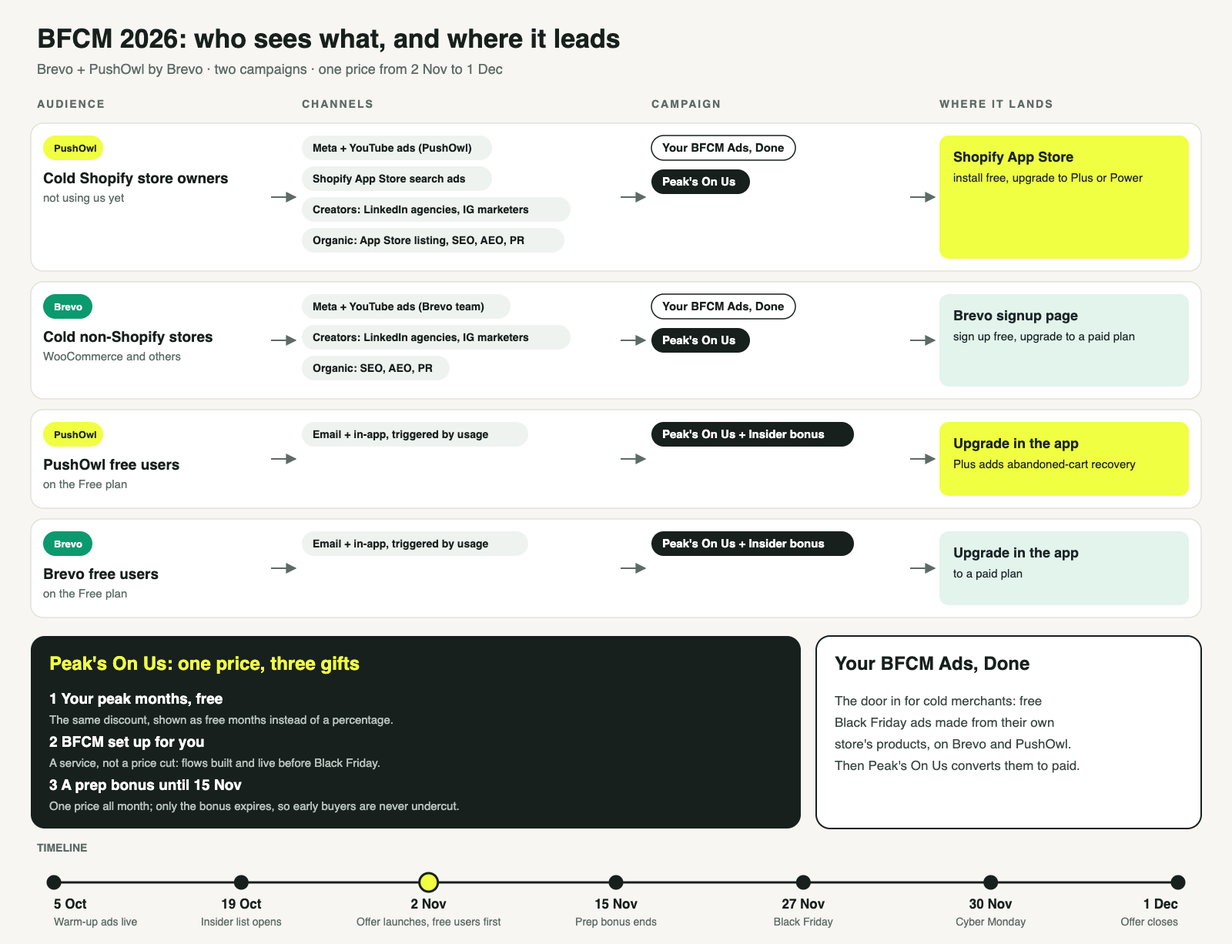
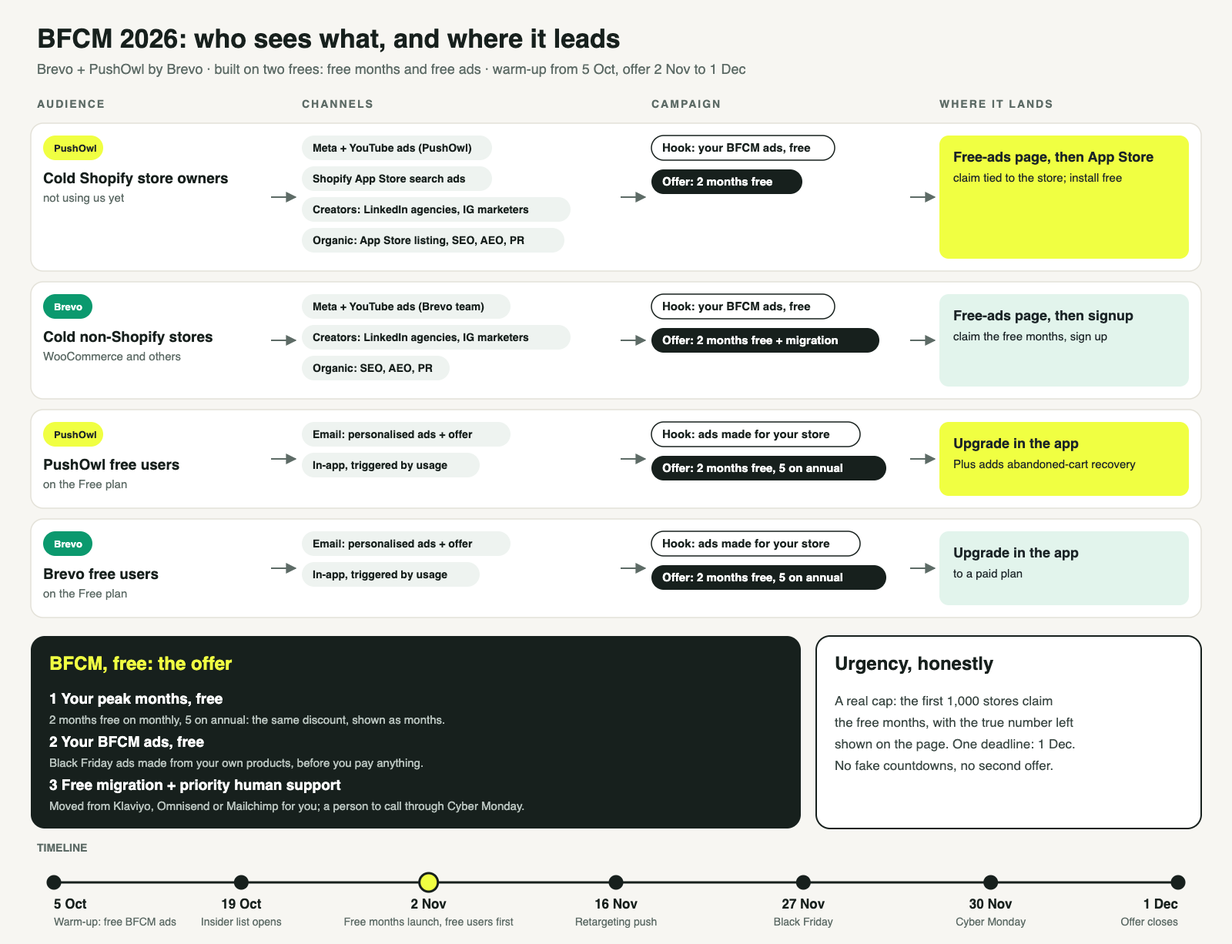
BFCM 2026: offer built on free months + free ads, landing page, phases

diff --git a/bfcm-2026.html b/bfcm-2026.html
@@ -26,7 +26,7 @@ a{color:var(--forest)}ol li,ul li{margin:3px 0}
 </style></head><body><header><div class="wrap"><span class="chip">Ideation, for review</span><span class="chip">1 Oct 2026</span>
 <h1>BFCM 2026: two campaigns for Brevo and PushOwl</h1>
 <p>How to repackage the same discount into offers worth acting on, for cold merchants (Meta, YouTube, creators) and free users (email), across both brands, plus the lead-up calendar and how to reprogram the agent to run it. Creatives and assets come after we pick.</p>
-<div class="toc"><a href="#flow">One-page view</a><a href="#why">What's wrong today</a><a href="#learn">What others did</a><a href="#map">Who gets what</a><a href="#c1">Campaign 1</a><a href="#c2">Campaign 2</a><a href="#offer">Offer math</a><a href="#ch">Channels</a><a href="#email">Free-user emails</a><a href="#cal">Calendar</a><a href="#agent">The agent</a><a href="#organic">Organic (Naman)</a><a href="#tab">Campaigns tab</a><a href="#dec">Decisions</a></div></div></header><div class="wrap">
+<div class="toc"><a href="#flow">One-page view</a><a href="#why">What's wrong today</a><a href="#learn">What others did</a><a href="#map">Who gets what</a><a href="#c1">The offer</a><a href="#aud">Who gets what</a><a href="#lp">Landing page</a><a href="#phase">Phases</a><a href="#free">Two frees</a><a href="#ch">Channels</a><a href="#email">Free-user emails</a><a href="#cal">Calendar</a><a href="#agent">The agent</a><a href="#organic">Organic (Naman)</a><a href="#tab">Campaigns tab</a><a href="#dec">Decisions</a></div></div></header><div class="wrap">
 
 <h2 id="flow">One-page view</h2>
 <p><a href="bfcm-2026-flow.png" target="_blank"><img src="bfcm-2026-flow.png" alt="BFCM 2026 flow: audiences, channels, campaigns, destinations, offers and timeline" style="width:100%;border-radius:12px;border:1px solid #e3e1d8"></a></p>
@@ -35,45 +35,70 @@ a{color:var(--forest)}ol li,ul li{margin:3px 0}
 <ul><li><b>It arrives after the buying window.</b> Brevo's 2025 deal ran 19 Nov to 1 Dec (40% off the first annual year, 500 codes). Merchants pick and set up their BFCM tools in October to mid November; by Black Friday they're mid-sale and their stack is locked. Shopify apps that front-load (GemPages from 1 Oct, Easify's biggest cut in September) are following the buyer.</li><li><b>It gives cold merchants no reason to care.</b> "40% off a tool I don't use" sells nothing to a stranger. Their problem is "is my store ready for my biggest week", not software prices.</li><li><b>It's background noise.</b> Brevo, Omnisend, Framer, Kit, beehiiv and Webflow all ran "X% off annual with code BFXX". Coupon sites copy the codes, and in 2025 a Brevo affiliate code (50% off 3 months) beat our own headline.</li><li><b>Free users get nothing that matches why they'd upgrade.</b> They upgrade when they hit a limit or need a feature for peak, not because a percentage exists.</li></ul>
 
 <h2 id="learn">What worked elsewhere (26 offers researched)</h2>
-<p><b>The three we're building on:</b> give a service instead of a price cut, show the discount as free months, and front-load with a bonus that expires. They're the three gifts inside Peak's On Us.</p>
+<p><b>What we took from this:</b> show the discount as free months (the conversion offer), give a service instead of a price cut (free migration, priority support), and front-load the campaign (warm-up from 5 Oct). Urgency comes from a real cap and one deadline rather than an expiring bonus.</p>
 <div class='grid'><div class='card good'><h4>Give a service, not a price cut</h4><p>Semrush 2024: one month of Pro plus a free $300 consult by a partner agency, price untouched. Omnisend: free Klaviyo migration, "worth $1,000, done in 5 days", run all year. Free setup removes the real blocker for a busy merchant.</p></div><div class='card good'><h4>Show the discount as free months</h4><p>MeetEdgar called 30% off a year "three months free"; ReturnPrime "2 months free"; Okendo "first 30 days free". Same money, reads as a gift instead of a markdown.</p></div><div class='card good'><h4>Cut the commitment for cold traffic</h4><p>ElevenLabs ran "$1 first month" two years running. A cold stranger won't prepay a year; they'll try a month.</p></div><div class='card good'><h4>Bonus capacity for upgraders</h4><p>Descript sold "fewer limits" (bonus credits), Higgsfield "unlimited". Free users feel limits first, so extra sends or credits speak to the exact reason they'd pay.</p></div><div class='card good'><h4>Free-user-only offers and early access</h4><p>Kit limited its deal to new and free-plan users; Grammarly emails its free base every year ("only once a year"); Paddle recommends existing users get first access.</p></div><div class='card good'><h4>Partners carry it to cold audiences</h4><p>PushOwl's own 2024 roundup of 20 partner-app deals; AppSumo's 5-tool bundle sold out. Every partner sends the offer to its own list.</p></div><div class='card good'><h4>Front-load, then add a reason to hurry</h4><p>Early-bird bonuses that expire (DronaHQ: 40% to 15 Nov, then 30%). Better: keep one price and let a bonus expire, so early buyers are never undercut.</p></div><div class='card good'><h4>Evidence on discounting</h4><p>Paddle: discounting SaaS sellers see about 7x orders, best at 30 to 40% off. Counterpoint (Hurman, ecommerce): deep discounts often lose margin; bonus value and waived setup hold up better.</p></div></div>
 
 <h2 id="map">Who gets what: two brands, two audiences</h2>
 <table><tr><th></th><th>PushOwl by Brevo (your team, PushOwl ad accounts)</th><th>Brevo (Brevo performance team, Brevo ad accounts)</th></tr><tr><td><b>Who</b></td><td>Shopify store owners only</td><td>Non-Shopify stores: WooCommerce, WordPress and others</td></tr><tr><td><b>Cold destination</b></td><td>Shopify App Store listing (install free, upgrade in app)</td><td>Brevo signup page (plus a BFCM offer page)</td></tr><tr><td><b>Free users</b></td><td>PushOwl Free plan (500 push, 500 emails; <b>no abandoned-cart recovery</b>, which starts on Plus at $19/mo)</td><td>Brevo Free plan</td></tr><tr><td><b>Channels</b></td><td>Meta + Google/YouTube (PushOwl accounts), Shopify App Store ads, creators, in-app + email</td><td>Meta + Google/YouTube (Brevo accounts, run by their team from the Campaigns tab), creators, email</td></tr><tr><td><b>Narrative spine</b></td><td>N3 Fair-Priced BFCM + cart recovery proof (Box, Box, Brenda)</td><td>N3 + N1 The List Tax (send-based pricing), N4 done-for-you</td></tr></table>
 
-<h2 id="c1">Campaign 1 (recommended lead): "Peak's On Us"</h2>
-<p><b>The idea:</b> your biggest month shouldn't come with your biggest bill or your biggest to-do list. We cover your peak months and set BFCM up for you. Same discount, packaged as three things a merchant actually wants before Black Friday.</p>
-<div class='grid'><div class='card good'><h4>1. Your peak months, free</h4><p>The discount shown as months: e.g. Nov and Dec free on a monthly plan, or about 5 months free on annual (the 2025 40% annual equals ~4.8 months). On PushOwl this maps cleanly to a longer Shopify-billing free trial of Plus or Power (to confirm with engineering).</p></div><div class='card good'><h4>2. BFCM set up for you</h4><p>PushOwl: a one-click BFCM pack (abandoned cart, browse abandonment, back in stock, flash-sale push, pop-up) live in 10 minutes. Brevo: a done-for-you BFCM setup or Klaviyo migration, delivered by Managed Services or Expert Directory partner agencies (N4).</p></div><div class='card good'><h4>3. A prep bonus that expires 15 Nov</h4><p>Buy early, get more: e.g. 10 BFCM ads made from your store (the new ads feature as the wedge, N2), or extra sends/SMS credits for peak. The price never changes during the campaign; only the bonus expires.</p></div></div>
-<table><tr><th>Audience</th><th>Message</th><th>Offer framing</th></tr><tr><td><b>Cold, PushOwl (Shopify)</b></td><td>"Black Friday's coming. Is your store ready to win back every abandoned cart?" Lead with readiness and cart recovery, show the 10-minute setup.</td><td>Install free. Peak's on us: Plus free through December, BFCM pack included.</td></tr><tr><td><b>Cold, Brevo (Woo and others)</b></td><td>"Send your biggest month without a bill spike." Brevo bills for what you send, not your list (N1 math: 10k contacts + 40k sends = $29 vs Klaviyo $150).</td><td>Your peak months on us, BFCM set up for you.</td></tr><tr><td><b>Free users, both</b></td><td>"Free can't recover abandoned carts, and BFCM is when carts get abandoned most." Personalised from their own store data where possible.</td><td>Insider access + the bonus, before the public. Peak months on us.</td></tr></table>
-<p><b>Why this one leads:</b> it answers the merchant's real question in the window when they're asking it, it uses the patterns with the most evidence (free months, free setup, early bonus), and it gives every channel the same simple promise.</p>
+<h2 id="c1">The offer (revised 2 Oct): BFCM, free</h2>
+<p><b>Decision:</b> the whole campaign is built on two "frees". Free months are the conversion offer, free ads are the hook. The $1 first month and the expiring prep bonus are dropped: free months already lower the commitment, and urgency comes from a real cap and one deadline instead.</p>
+<div class="grid">
+<div class="card good"><h4>1. Your peak months, free</h4><p>The same discount shown as months: <b>2 months free</b> on monthly (November and December, your peak), or <b>5 months free on annual</b> (about the 2025 40% annual). On PushOwl it's a 60-day free trial of Plus or Power in Shopify billing (to confirm with engineering); on Brevo, a coupon.</p></div>
+<div class="card good"><h4>2. Your BFCM ads, free</h4><p>Black Friday ads made from your own store's products, on both Brevo and PushOwl. It's value before any purchase, so it's the hook for cold traffic, the warm-up offer, and the attention-grabber in free-user emails.</p></div>
+<div class="card good"><h4>3. Free migration, done for you</h4><p>Moving from Klaviyo, Omnisend or Mailchimp is done by our team: lists, flows, templates, before Black Friday. State a dollar value only if it's the real price of the service (Omnisend publishes "worth $1,000, done in 5 days").</p></div>
+<div class="card good"><h4>4. Priority human support through Cyber Monday</h4><p>The one more benefit. In our 215-ad competitor corpus, human-support ads are the most durable angle (never switched off), and peak week is when a merchant fears a problem with nobody to call.</p></div>
+</div>
+<p><b>Urgency, honestly:</b> a real cap (for example the first 1,000 stores claim the free months) plus one deadline (1 Dec). The counter on the page shows the true number left; Brevo's 2025 offer was already capped at 500 codes, so there's precedent. No fake countdowns.</p>
 
-<h2 id="c2">Campaign 2 (cold-traffic wedge): "Your BFCM Ads, Done"</h2>
-<p><b>The idea:</b> paste your store, get your Black Friday ads. A free, useful thing a cold merchant wants right now, which brings them into the product, where Campaign 1's upgrade offer takes over.</p>
-<ul><li><b>Offer:</b> sign up or install and get a set of free BFCM ads made from your own products (the ads feature, N2's "ads from your store"). Upgrade within the window to keep generating and to get Peak's On Us.</li><li><b>Best on:</b> Instagram and YouTube with marketer and AI-tool creators ("I made my Black Friday ads from my store URL in 2 minutes"), and as a Meta cold hook.</li><li><b>Care needed:</b> our ad-corpus analysis showed AI-led ads die fast (15-day median) and N2 is our weakest narrative as a claim. So lead with the outcome ("your BFCM ads are done") and the free gift, not "AI".</li><li><b>Runs on both brands:</b> PushOwl (Shopify) users and Brevo users both get the ads feature, so the same wedge works for both cold audiences.</li></ul>
+<h2 id="aud">Who gets which offer</h2>
+<table><tr><th>Audience</th><th>Hook (first touch)</th><th>Conversion offer</th><th>Where they land</th></tr>
+<tr><td><b>Cold Shopify owners</b> (PushOwl)</td><td>Your BFCM ads, free</td><td>2 months of Plus free + priority support</td><td>Free-ads page, then the App Store</td></tr>
+<tr><td><b>Cold Shopify owners on Klaviyo or Omnisend</b> (switchers)</td><td>Free migration before Black Friday</td><td>Free migration + 2 months free</td><td>Free-ads page, then the App Store</td></tr>
+<tr><td><b>Cold non-Shopify stores</b> (Brevo)</td><td>Your BFCM ads, free</td><td>2 months free + free migration + support</td><td>Free-ads page, then Brevo signup</td></tr>
+<tr><td><b>PushOwl free users</b></td><td>Personalised ads for their store, in email</td><td>2 months of Plus free (abandoned-cart recovery), 5 on annual</td><td>Upgrade in the app</td></tr>
+<tr><td><b>Brevo free users</b></td><td>Personalised ads for their store, in email</td><td>2 months free, 5 on annual</td><td>Upgrade in the app</td></tr></table>
+<p><b>For cold, both, but in order:</b> free ads first (it gives them something before asking for anything), free months next (it closes). Run both as separate hooks in the warm-up so the data shows which pulls harder for each audience.</p>
 
-<h2 id="offer">Offer math (same money, better packaging)</h2>
-<table><tr><th>If the discount is</th><th>Show it as</th><th>Use for</th></tr><tr><td>40% off the first annual year (2025)</td><td>about 5 months free on annual</td><td>free users with real usage (higher commitment)</td></tr><tr><td>~16% of a year</td><td>2 months free (Nov and Dec, your peak) on monthly</td><td>cold traffic (low commitment)</td></tr><tr><td>first month at a token price</td><td>"$1 for your first month" (ElevenLabs pattern)</td><td>cold test variant</td></tr><tr><td>value add, no extra discount</td><td>BFCM setup done for you, prep bonus until 15 Nov</td><td>everyone; the reason to act early</td></tr></table>
-<p>One price for the whole window (2 Nov to 1 Dec), one public offer, and creator codes that add a perk rather than a bigger cut, so no partner code ever beats the headline again.</p>
+<h2 id="lp">The landing page: a free-ads page, not a coupon page</h2>
+<ul><li><b>Yes to a page between the ad and the store</b>, because it does a job a coupon page can't: the merchant pastes their store URL and sees their BFCM ads in seconds. That delivers the hook, captures the store URL (for retargeting and email even if they don't install), and gives Meta a high-volume event to learn on.</li>
+<li><b>Then the claim:</b> "Claim your 2 free months, 683 of 1,000 left" (the real number), with Install on Shopify (PushOwl) or Sign up (Brevo).</li>
+<li><b>PushOwl detail:</b> an App Store install can't carry a coupon, so the claim is tied to the store domain captured on the page; when that store installs, the app applies the 60-day trial. Engineering to confirm.</li>
+<li><b>Direct-to-store still runs</b>, as a control: about 30% of warm-up spend goes straight to the App Store or signup, so we can see whether the page earns its extra step.</li></ul>
+
+<h2 id="phase">What happens when: warm-up, then the hard-hitting phase</h2>
+<table><tr><th>Phase</th><th>Ads</th><th>Creators, PR</th><th>Email (free users)</th></tr>
+<tr><td><b>Warm-up</b><br>5 Oct to 1 Nov</td><td>"Your BFCM ads, free": about 70% to the free-ads page (optimise for store URL submitted), 30% direct to App Store or signup. Free-months teaser hooks tested alongside. Builds the warm pools.</td><td>Creators demo the free ads ("I made my Black Friday ads from my store URL"). PR prepares the announcement.</td><td>Personalised ads for their store; Insider list for the free months.</td></tr>
+<tr><td><b>Launch</b><br>2 to 15 Nov</td><td>"BFCM, free" goes live: retarget everyone who visited the page, submitted a URL, watched the video or opened the App Store listing; cold prospecting continues with the combined offer.</td><td>Announcement: "Brevo makes BFCM free for merchants". Creator wave 1 with codes.</td><td>Insiders first on 2 Nov, then everyone; triggered upgrade emails.</td></tr>
+<tr><td><b>Peak</b><br>16 Nov to 1 Dec</td><td>Retargeting-heavy as CPMs climb; claims-left updates; switchers get the migration message.</td><td>Creator wave 2 + partnership ads; PR data story from the free-ads tool (real usage numbers).</td><td>Claims update, BF, CM, last call; closes 1 Dec 23:59.</td></tr></table>
+
+<h2 id="free">Everything built only around the two frees</h2>
+<table><tr><th>Channel</th><th>Free months</th><th>Free ads</th></tr>
+<tr><td><b>Ads</b></td><td>"Your BFCM months are on us"; retargeting and switchers.</td><td>Cold hook and warm-up: show real ads made from real stores.</td></tr>
+<tr><td><b>Creators</b></td><td>Codes add the migration or support perk, never a bigger discount.</td><td>IG and YouTube: "I made my BF ads from my store URL, free". LinkedIn agency owners: free ads for every client store + free migration for their clients.</td></tr>
+<tr><td><b>PR</b></td><td>"Brevo makes BFCM free": 2 months, migration, support.</td><td>The data story: how many BFCM ads stores made in October.</td></tr>
+<tr><td><b>Email</b></td><td>The upgrade offer, annual = 5 months.</td><td>Personalised ads made for each free user's store, the attention grabber.</td></tr></table>
+<p><b>Personalised ads in email:</b> the pipeline already exists (the MagicFit day-1 personalised-ad emails and the PushOwl daily-ads build). The known blocker: Brevo's PushOwl segment holds no store URLs, so we need PushOwl's internal email-to-shop-domain export, which takes reach from about 27% to all users. Cost stays low with the 4-ads-in-one-image method (about 75% cheaper). Nothing is sent without your go.</p>
 
 <h2 id="ch">Channels</h2>
 <table><tr><th>Channel</th><th>What to run</th><th>When</th></tr><tr><td><b>Meta, PushOwl</b></td><td>Value-led warm-up first ("is your store BFCM-ready?", the free BFCM pack, the deliverability checker), then offer-led. Box, Box, Brenda as the hero video (it's literally cart recovery across push, email, SMS, WhatsApp), founder or creator screen-record UGC, benefit statics. Destination: App Store.</td><td>Warm-up from 5 Oct, offer 2 Nov, retargeting-heavy from 16 Nov, mostly retargeting in BF week</td></tr><tr><td><b>YouTube</b></td><td>15 to 30 s cutdowns of the hero video; "set up your BFCM flows in 10 minutes" tutorials as in-feed.</td><td>From 5 Oct</td></tr><tr><td><b>Shopify App Store ads</b></td><td>Search ads on email, SMS, push, abandoned cart keywords: catches merchants shopping now.</td><td>From 5 Oct</td></tr><tr><td><b>Meta/Google, Brevo</b></td><td>Same campaigns, Woo and non-Shopify messaging, Brevo signup destination, delivered to their team via the Campaigns tab.</td><td>Same calendar</td></tr><tr><td><b>LinkedIn agency owners</b></td><td>"The BFCM flow stack we build for clients" carousels, comment-to-get template packs, an agency client offer (partner-built setup). Expert Directory partners are never paid a fee; other agency creators are.</td><td>Brief by 9 Oct, posts from 2 Nov</td></tr><tr><td><b>Instagram marketers / tech creators</b></td><td>"Build my BFCM flow with me" Reels, "my BF ads from my store URL" (Campaign 2), a creator-only perk. Best ones boosted as partnership ads from 16 Nov.</td><td>Book this week (rates rise 20 to 40% at peak)</td></tr></table>
 <p>Q4 prices: Meta CPMs rise about 30 to 45% from October to BF week. Since we've never run a cold BFCM campaign, the ads have to finish learning at October prices, which is why the warm-up starts 5 Oct, a week earlier than the research minimum.</p>
 
 <h2 id="email">Free-user email sequence (both brands)</h2>
-<table><tr><th>When</th><th>Email</th><th>Note</th></tr><tr><td>Week of 12 Oct</td><td>BFCM prep tips, no offer</td><td>builds the habit</td></tr><tr><td>19 Oct</td><td>"Get it first": join the Insider list in app</td><td>early-access opt-in</td></tr><tr><td>26 Oct</td><td>Teaser: "Monday, you get it first"</td><td></td></tr><tr><td><b>2 Nov</b></td><td>Launch: Peak's On Us + Insider bonus</td><td>free users first thing Monday</td></tr><tr><td>Triggered, all month</td><td>Limit hit, flow built, subscriber milestone, "you had N abandoned carts last month and Free can't recover them"</td><td>triggered emails convert far above broadcasts (Omnisend: 1.49% vs 0.08%)</td></tr><tr><td>12 Nov</td><td>"Your prep bonus ends Sunday"</td><td>the deadline with a reason</td></tr><tr><td>16 Nov</td><td>Proof: what stores like yours recovered</td><td></td></tr><tr><td>23 to 27 Nov</td><td>"Still time to be ready for December"; Black Friday send</td><td></td></tr><tr><td>30 Nov, 1 Dec</td><td>Cyber Monday; last call (morning, then 6 hours left)</td><td>close 1 Dec 23:59</td></tr><tr><td>2 to 3 Dec</td><td>48-hour "missed it" for engaged non-converters only</td><td>no public extension</td></tr></table>
+<table><tr><th>When</th><th>Email</th><th>Note</th></tr><tr><td>From 5 Oct</td><td>"We made BFCM ads for your store": personalised ads, free</td><td>the attention grabber</td></tr><tr><td>19 Oct</td><td>"Get it first": join the Insider list in app</td><td>early-access opt-in</td></tr><tr><td>26 Oct</td><td>Teaser: "Monday, you get it first"</td><td></td></tr><tr><td><b>2 Nov</b></td><td>Launch: 2 months free, Insiders first</td><td>free users first thing Monday</td></tr><tr><td>Triggered, all month</td><td>Limit hit, flow built, subscriber milestone, "you had N abandoned carts last month and Free can't recover them"</td><td>triggered emails convert far above broadcasts (Omnisend: 1.49% vs 0.08%)</td></tr><tr><td>12 Nov</td><td>Claims update: the real number of free-month passes left</td><td>urgency from the cap, not a fake timer</td></tr><tr><td>16 Nov</td><td>Proof: what stores like yours recovered</td><td></td></tr><tr><td>23 to 27 Nov</td><td>"Still time to be ready for December"; Black Friday send</td><td></td></tr><tr><td>30 Nov, 1 Dec</td><td>Cyber Monday; last call (morning, then 6 hours left)</td><td>close 1 Dec 23:59</td></tr><tr><td>2 to 3 Dec</td><td>48-hour "missed it" for engaged non-converters only</td><td>no public extension</td></tr></table>
 <p>Nothing is sent without your go, per the standing rule.</p>
 
 <h2 id="cal">Lead-up calendar (launch Monday 2 November)</h2>
-<table><tr><th>Week of</th><th>Ads</th><th>Creators</th><th>Email / in app</th></tr><tr><td><b>5 Oct WARM-UP</b></td><td>Value-led warm-up live (5 or 6 Oct) with assets we already have: Box, Box, Brenda, approved statics, the BFCM pack and readiness hooks; App Store search ads on; pixel and events checked</td><td>Shortlist, briefs out by 9 Oct</td><td>Segments and triggers</td></tr><tr><td>12 Oct</td><td>Add new BFCM concepts to the warm-up; start building warm pools</td><td>Contracts</td><td>Prep tips</td></tr><tr><td>19 Oct</td><td>Test hooks, scale 20% every 3 to 4 days</td><td>Drafts</td><td>Insider list</td></tr><tr><td>26 Oct</td><td>Lock 3 to 4 winners, build offer variants</td><td>Approvals, tracked codes</td><td>Teaser</td></tr><tr><td><b>2 Nov LAUNCH</b></td><td>Offer live, cold + warm retargeting</td><td>Wave 1</td><td>Launch to free users</td></tr><tr><td>9 Nov</td><td>Weekly creative refresh</td><td>Wave 2, boost winners</td><td>Bonus ends Sunday</td></tr><tr><td>16 Nov</td><td>Shift to retargeting as CPMs climb</td><td>Live "build your BFCM flow" session</td><td>Proof</td></tr><tr><td>23 Nov (BF)</td><td>Mostly retargeting + partnership ads</td><td>"Last chance for December"</td><td>BF send</td></tr><tr><td>30 Nov (CM)</td><td>CM retargeting; offer off 1 Dec 23:59</td><td>Final reminders</td><td>CM + last call</td></tr><tr><td>7 Dec</td><td>Cold off; keep warm pools for January</td><td>Pay out after final approval</td><td>Results</td></tr></table>
-<p><b>Announce:</b> the theme ("Peak's On Us is coming") and the Insider list from 19 Oct; the exact offer on launch Monday, 2 Nov, free users first. Fallback: launch 26 Oct if creators and creative are locked by 16 Oct.</p>
+<table><tr><th>Week of</th><th>Ads</th><th>Creators</th><th>Email / in app</th></tr><tr><td><b>5 Oct WARM-UP</b></td><td>Value-led warm-up live (5 or 6 Oct) with assets we already have: Box, Box, Brenda, approved statics, the BFCM pack and readiness hooks; App Store search ads on; pixel and events checked</td><td>Shortlist, briefs out by 9 Oct</td><td>Segments and triggers</td></tr><tr><td>12 Oct</td><td>Add new BFCM concepts to the warm-up; start building warm pools</td><td>Contracts</td><td>Prep tips</td></tr><tr><td>19 Oct</td><td>Test hooks, scale 20% every 3 to 4 days</td><td>Drafts</td><td>Insider list</td></tr><tr><td>26 Oct</td><td>Lock 3 to 4 winners, build offer variants</td><td>Approvals, tracked codes</td><td>Teaser</td></tr><tr><td><b>2 Nov LAUNCH</b></td><td>Offer live, cold + warm retargeting</td><td>Wave 1</td><td>Launch to free users</td></tr><tr><td>9 Nov</td><td>Weekly creative refresh</td><td>Wave 2, boost winners</td><td>Claims update</td></tr><tr><td>16 Nov</td><td>Shift to retargeting as CPMs climb</td><td>Live "build your BFCM flow" session</td><td>Proof</td></tr><tr><td>23 Nov (BF)</td><td>Mostly retargeting + partnership ads</td><td>"Last chance for December"</td><td>BF send</td></tr><tr><td>30 Nov (CM)</td><td>CM retargeting; offer off 1 Dec 23:59</td><td>Final reminders</td><td>CM + last call</td></tr><tr><td>7 Dec</td><td>Cold off; keep warm pools for January</td><td>Pay out after final approval</td><td>Results</td></tr></table>
+<p><b>Announce:</b> the theme ("BFCM, free is coming") and the Insider list from 19 Oct; the exact offer on launch Monday, 2 Nov, free users first. Fallback: launch 26 Oct if creators and creative are locked by 16 Oct.</p>
 
 <h2 id="agent">Reprogramming the agent for this</h2>
-<table><tr><th>Change</th><th>What it does</th></tr><tr><td><b>Campaigns as a first-class object</b></td><td>A campaign record: brand (PushOwl or Brevo), window and phases (warm-up, launch, bonus ends, BF, CM, last call), offer terms as verified claims, audiences (cold, free users), destinations, budgets, KPIs. Every creative carries its campaign and brand.</td></tr><tr><td><b>A brand dimension everywhere</b></td><td>Today the Library can't tell Brevo assets from PushOwl ones. PushOwl creatives: Shopify-only messaging, App Store destination, launched as drafts to PushOwl accounts (Meta is on hold until you say start). Brevo creatives: non-Shopify messaging, Brevo signup URL, delivered via the Campaigns tab, never launched by us.</td></tr><tr><td><b>Campaign mode in weekly production</b></td><td>Narrative mix shifts to N3 + N1 with N2 as the wedge; value-led creatives before 2 Nov, offer-led after; cold and free-user variants; deadline copy dated to the phase, with expired-deadline creatives retired automatically.</td></tr><tr><td><b>Offer in the claims ledger</b></td><td>The final offer terms become claims, so no ad can state a discount, deadline or bonus that isn't the real one.</td></tr><tr><td><b>Video</b></td><td>Box, Box, Brenda plus BFCM cutdowns from the cinematic harness; tutorial and screen-record briefs for creators.</td></tr><tr><td><b>Email copy and creator briefs</b></td><td>Drafted per campaign for review, never sent by the agent.</td></tr><tr><td><b>BFCM-aware recommendations</b></td><td>Daily rules adjusted for Q4 CPM inflation (don't flag a normal November CPM rise as a problem), plus offer redemptions and install-to-upgrade tracking.</td></tr></table>
+<table><tr><th>Change</th><th>What it does</th></tr><tr><td><b>Campaigns as a first-class object</b></td><td>A campaign record: brand (PushOwl or Brevo), window and phases (warm-up, launch, peak, BF, CM, last call), offer terms as verified claims, audiences (cold, free users), destinations, budgets, KPIs. Every creative carries its campaign and brand.</td></tr><tr><td><b>A brand dimension everywhere</b></td><td>Today the Library can't tell Brevo assets from PushOwl ones. PushOwl creatives: Shopify-only messaging, App Store destination, launched as drafts to PushOwl accounts (Meta is on hold until you say start). Brevo creatives: non-Shopify messaging, Brevo signup URL, delivered via the Campaigns tab, never launched by us.</td></tr><tr><td><b>Campaign mode in weekly production</b></td><td>Narrative mix shifts to N3 + N1 with N2 as the wedge; value-led creatives before 2 Nov, offer-led after; cold and free-user variants; deadline copy dated to the phase, with expired-deadline creatives retired automatically.</td></tr><tr><td><b>Offer in the claims ledger</b></td><td>The final offer terms become claims, so no ad can state a discount, deadline or bonus that isn't the real one.</td></tr><tr><td><b>Video</b></td><td>Box, Box, Brenda plus BFCM cutdowns from the cinematic harness; tutorial and screen-record briefs for creators.</td></tr><tr><td><b>Email copy and creator briefs</b></td><td>Drafted per campaign for review, never sent by the agent.</td></tr><tr><td><b>BFCM-aware recommendations</b></td><td>Daily rules adjusted for Q4 CPM inflation (don't flag a normal November CPM rise as a problem), plus offer redemptions and install-to-upgrade tracking.</td></tr></table>
 
 <h2 id="organic">Organic: SEO, AEO/GEO and PR (Naman)</h2>
 <p>Search and AI answers lag, so most of this has to ship in October to count in November. Everything points at the same two campaigns, and every figure comes from the verified claims ledger.</p>
 <table><tr><th>Track</th><th>What Naman does</th><th>When</th></tr>
-<tr><td><b>SEO</b></td><td><b>BFCM hub pages:</b> a Brevo BFCM page (WooCommerce and non-Shopify) and a PushOwl BFCM page, each ending in Peak's On Us. Refresh existing BFCM posts to 2026.</td><td>Live by 12 Oct</td></tr>
+<tr><td><b>SEO</b></td><td><b>BFCM hub pages:</b> a Brevo BFCM page (WooCommerce and non-Shopify) and a PushOwl BFCM page, each ending in the BFCM, free offer. Refresh existing BFCM posts to 2026.</td><td>Live by 12 Oct</td></tr>
 <tr><td></td><td><b>Pages that rank on BFCM searches:</b> Black Friday email templates, BFCM SMS templates, web push examples for Black Friday, BFCM checklists for Shopify and WooCommerce.</td><td>Oct</td></tr>
 <tr><td></td><td><b>Free tools as linkable assets:</b> the live deliverability checker, plus a BFCM send-cost calculator (what your BFCM sends cost on list-based vs send-based pricing, the List Tax).</td><td>Calculator by 19 Oct</td></tr>
 <tr><td></td><td><b>App Store listing (ASO):</b> BFCM-ready screenshots and promo text, and a review push to happy users (4.8 stars from 2,276 reviews today).</td><td>From 5 Oct</td></tr>
@@ -91,6 +116,6 @@ a{color:var(--forest)}ol li,ul li{margin:3px 0}
 <ul><li>One card per campaign: objective, audience, KPIs, budget, schedule, destination and UTMs, naming conventions.</li><li>Every creative attached and grouped by platform (Meta images and videos, Google RSA text), with copy, download buttons and a Google Ads Editor CSV.</li><li>Status and notes they can read; a share link per campaign. Read-only for them: they run it in their own accounts their way.</li><li>Built after we pick the campaign, ready before 2 Nov.</li></ul>
 
 <h2 id="dec">Decisions for you</h2>
-<ul><li>Pick the lead campaign (recommended: Peak's On Us, with Your BFCM Ads, Done as the cold wedge).</li><li>The real discount value and eligibility per brand, and whether PushOwl can deliver it as extended free trial days in Shopify billing.</li><li>Who delivers "set up for you": Managed Services, Expert Directory partners, or the one-click pack only.</li><li>Lift the Meta hold so the PushOwl warm-up can go live on 5 or 6 Oct.</li><li>Offer launch: 2 Nov (recommended) or 26 Oct. The warm-up starts 5 or 6 Oct either way.</li><li>Budgets per channel and brand, and the creator budget (book this week).</li></ul>
+<ul><li>Confirm the cap size (e.g. 1,000 stores) and the real value of free migration.</li><li>The real discount value and eligibility per brand, and whether PushOwl can deliver it as extended free trial days in Shopify billing.</li><li>Who delivers "set up for you": Managed Services, Expert Directory partners, or the one-click pack only.</li><li>Lift the Meta hold so the PushOwl warm-up can go live on 5 or 6 Oct.</li><li>Offer launch: 2 Nov (recommended) or 26 Oct. The warm-up starts 5 or 6 Oct either way.</li><li>Budgets per channel and brand, and the creator budget (book this week).</li></ul>
 <p class="muted" style="font-size:13px">Sources: 26 SaaS BFCM offers 2022 to 2025 (Brevo, Omnisend, Klaviyo, Semrush, ElevenLabs, Descript, Grammarly, Kit, GemPages and others), Klaviyo and Shopify-app prep guidance, Meta's holiday guide, Q4 CPM data (Right Side Up, Billy Grace), Gamma's creator program, Omnisend email benchmarks. Several competitor offer terms come from coupon sites and are marked unverified in the research notes.</p>
 </div></body></html>
